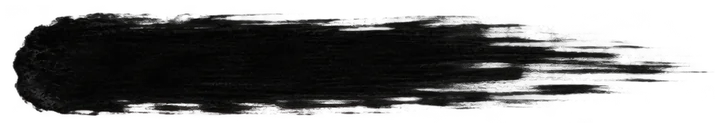
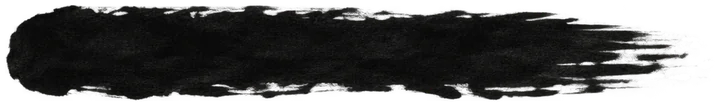
Battle ink UI: hand-painted card strokes, washi seals, brush-line gauges
Second painted sprite sheet (tools/ui/src/team_ink_sheet.webp), cut by
tools/ui/team_sheet.py:
- team cards alternate two upright brush strokes; the stroke runs past the
  card's foot so the name and gauges sit on its solid body
- HP and chakra gauges are masked to thin tapered brush lines
- ready seals sit on washi: round indigo 術 for a jutsu, square vermilion
  奥 for an ultimate, with a vermilion splash behind it
- the acting unit gets a vermilion brush tick
- commander banner uses the new solid stroke; its seal sits on washi, the
  details card uses brush-line rules, and the cut-in throws a splash
  behind the title
- fix: the hidden READY tag labels leaked on phones; the gold glow on the
  ready tags is gone

diff --git a/css/battle-team-ink.css b/css/battle-team-ink.css
@@ -2,12 +2,17 @@
    Layered over battle-team-holder.css / battle-chakra-wheel.css /
    battle-link-ultimate.css (markup unchanged, so tap, drag, swap, chakra
    and HP updates all work as before):
-   - each card is an upright ink brush stroke (assets/ui/ink/ink_card.webp),
-     the portrait painted into it (the same stroke as a mask), no frame art
-   - name in cream serif, a thin HP line, an indigo chakra gauge
+   - each card is an upright ink brush stroke (ink_card / ink_card_b.webp,
+     alternating), the portrait painted into it (the same stroke as a mask),
+     no frame art
+   - name in cream serif; the HP and chakra gauges are thin brush lines
+     (ink_line_a / ink_line_b.webp as masks)
    - slot number as brush kanji on a vermilion ink drop
-   - ready: painted seals instead of lightning — 術 (indigo) for a jutsu,
-     奥 (vermilion) for an ultimate — and a matching brush stroke under the card
+   - ready: painted seals on washi instead of lightning — a round indigo 術
+     for a jutsu, a square vermilion 奥 for an ultimate (over a vermilion splash),
+     with a matching brush stroke under the card
+   - acting: a vermilion brush tick above the card
+   Art: tools/ui/commander_sheet.py and tools/ui/team_sheet.py.
    The kanji use 'Yuji Boku Cmd' (declared in battle-commander.css). */
 #team-holder {
   --ti-paper: #efe6cf; --ti-paper-dim: rgba(239, 230, 207, 0.6); --ti-paper-faint: rgba(239, 230, 207, 0.16);
@@ -15,7 +20,10 @@
   --ti-brush: 'Yuji Boku Cmd', 'Hiragino Mincho ProN', 'Yu Mincho', 'Noto Serif JP', 'Kaisei Tokumin', serif;
   --ti-serif: 'Hiragino Mincho ProN', 'Yu Mincho', 'Noto Serif JP', 'Kaisei Tokumin', Georgia, serif;
   --ti-ink: url('../assets/ui/ink/ink_card.webp');
+  --ti-washi: url('../assets/ui/ink/ink_washi.webp');
 }
+/* every other card is painted with the second stroke, so they don't repeat */
+#team-holder .unit-card[data-pos="2"], #team-holder .unit-card[data-pos="4"] { --ti-ink: url('../assets/ui/ink/ink_card_b.webp'); }
 
 /* no frame art, no lightning */
 #team-holder .uc-art,
@@ -24,8 +32,10 @@
 
 /* ── the card: an upright ink stroke ─────────────────────────── */
 #team-holder .uc-body::before {
-  content: ''; position: absolute; inset: -3% -9% -6% -9%; z-index: 0; pointer-events: none;
-  background: var(--ti-ink) center / 100% 100% no-repeat;
+  /* the stroke runs past the card's foot, so its solid body (not the dry
+     drips at its end) sits under the name and gauges */
+  content: ''; position: absolute; inset: -3% -9% -34% -9%; z-index: 0; pointer-events: none;
+  background: var(--ti-ink) center top / 100% 100% no-repeat;
   filter: drop-shadow(0 4px 6px rgba(0, 0, 0, 0.55));
 }
 #team-holder .active-portrait-container > .unit-ring {
@@ -51,23 +61,25 @@
   text-shadow: 0 1px 2px rgba(0, 0, 0, 0.95);
 }
 #team-holder .unit-info .unit-hp-bar {
-  height: clamp(2px, calc(var(--uc-h) * 0.018), 4px);
-  background: var(--ti-paper-faint); border: 0; border-radius: 2px; box-shadow: none;
+  height: clamp(3px, calc(var(--uc-h) * 0.024), 5px);
+  background: var(--ti-paper-faint); border: 0; border-radius: 0; box-shadow: none;
+  -webkit-mask: url('../assets/ui/ink/ink_line_a.webp') center / 100% 100% no-repeat; mask: url('../assets/ui/ink/ink_line_a.webp') center / 100% 100% no-repeat;
 }
 #team-holder .unit-info .unit-hp-fill,
-#team-holder .unit-hp-fill { background: var(--ti-paper); border-radius: 2px; }
+#team-holder .unit-hp-fill { background: var(--ti-paper); border-radius: 0; }
 #team-holder .unit-card.hp-low .unit-info .unit-hp-fill { background: var(--ti-vermilion-2); }
 
 /* chakra: an indigo ink line with the count */
 #team-holder .uc-strip { left: 9%; right: 9%; top: 85%; height: 8%; }
 #team-holder .unit-card.has-backup .uc-strip { right: 24%; }
 #team-holder .chakra-gauge.cbar .cb-track {
-  height: 42%; border: 0; border-radius: 3px; box-shadow: none;
+  height: 48%; border: 0; border-radius: 0; box-shadow: none;
   background: var(--ti-paper-faint);
+  -webkit-mask: url('../assets/ui/ink/ink_line_b.webp') center / 100% 100% no-repeat; mask: url('../assets/ui/ink/ink_line_b.webp') center / 100% 100% no-repeat;
 }
 #team-holder .chakra-gauge.cbar .cb-fill {
   background: linear-gradient(90deg, var(--ti-indigo), var(--ti-indigo-2));
-  box-shadow: none; border-radius: 3px;
+  box-shadow: none; border-radius: 0;
 }
 #team-holder .chakra-gauge.cbar .cb-fill::after { background: var(--ti-paper); box-shadow: none; width: 1px; }
 #team-holder .chakra-gauge.cbar.ult-ready .cb-fill { background: linear-gradient(90deg, var(--ti-vermilion), var(--ti-vermilion-2)); }
@@ -90,18 +102,32 @@
 #team-holder .unit-card:not([data-pos="1"]):not([data-pos="2"]):not([data-pos="3"]):not([data-pos="4"]) .uc-pos { font-size: clamp(7px, calc(var(--uc-w) * 0.085), 13px); }
 
 /* ── ready: painted seals, a brush stroke under the card ──────── */
-#team-holder .uc-ready { top: 3%; right: 2%; gap: 3px; }
+#team-holder .uc-ready { top: 3%; right: 2%; gap: 3px; filter: none; isolation: isolate; }
+/* a vermilion splash thrown behind the seals when the ultimate is ready */
+#team-holder .unit-card.ult-ready .uc-ready::before {
+  content: ''; position: absolute; z-index: -1; pointer-events: none;
+  right: -18%; top: -22%; width: calc(var(--uc-w) * 0.46); aspect-ratio: 1; opacity: 0.92;
+  background: url('../assets/ui/ink/ink_splash_red.webp') center / contain no-repeat;
+}
 #team-holder .uc-tag {
   width: calc(var(--uc-w) * 0.26); aspect-ratio: 1; padding: 0; border: 0; border-radius: 0; transform: rotate(-6deg);
   background: none; box-shadow: none; text-shadow: none; font-size: 0; position: relative;
   filter: drop-shadow(0 2px 2px rgba(0, 0, 0, 0.6));
 }
-/* the painted seal (its own layer, so the jutsu seal can be re-inked indigo) */
+/* the tag's own label stays hidden (the seal's ::after carries the kanji), phones too */
+html.is-mobile #team-holder .uc-tag { font-size: 0; }
+/* the painted seal over a scrap of washi: square for the ultimate, round for a jutsu */
 #team-holder .uc-tag::before {
   content: ''; position: absolute; inset: 0;
   background:
     url('../assets/ui/ink/cmd_seal.webp') center / 100% 100% no-repeat,
-    linear-gradient(var(--ti-paper), var(--ti-paper)) center / 76% 76% no-repeat;
+    var(--ti-washi) center / 76% 76% no-repeat;
+}
+#team-holder .tag-jutsu::before {
+  background:
+    url('../assets/ui/ink/ink_seal_round.webp') center / 100% 100% no-repeat,
+    var(--ti-washi) center / 100% 100% no-repeat;
+  -webkit-mask: radial-gradient(circle closest-side, #000 98%, transparent 100%); mask: radial-gradient(circle closest-side, #000 98%, transparent 100%);
 }
 #team-holder .uc-tag::after {
   position: absolute; inset: 0; display: grid; place-items: center;
@@ -110,7 +136,6 @@
 #team-holder .tag-ult { color: var(--ti-vermilion); }
 #team-holder .tag-ult::after { content: '奥'; }
 #team-holder .tag-jutsu { color: var(--ti-indigo); }
-#team-holder .tag-jutsu::before { filter: hue-rotate(205deg) saturate(0.8); }
 #team-holder .tag-jutsu::after { content: '術'; }
 @keyframes ucTagIn {
   from { opacity: 0; transform: rotate(-6deg) scale(1.8); }
@@ -123,11 +148,11 @@
 }
 #team-holder .unit-card.jutsu-ready:not(.ult-ready) .uc-body::after { filter: hue-rotate(205deg) saturate(0.75); }
 
-/* ── acting unit: lifted, a vermilion drop above it ───────────── */
+/* ── acting unit: lifted, a vermilion brush tick above it ──────── */
 #team-holder .unit-card.is-acting::before {
-  width: 12%; aspect-ratio: 1; top: -2%; clip-path: none; filter: none;
-  background: var(--ti-vermilion-2);
-  -webkit-mask: url('../assets/ui/ink/cmd_dab.webp') center / contain no-repeat; mask: url('../assets/ui/ink/cmd_dab.webp') center / contain no-repeat;
+  left: 50%; width: 22%; aspect-ratio: 1; top: 1%; clip-path: none;
+  background: url('../assets/ui/ink/ink_tick.webp') center / contain no-repeat;
+  filter: drop-shadow(0 2px 2px rgba(0, 0, 0, 0.6));
 }
 #team-holder .unit-card.is-acting .uc-body::before { filter: drop-shadow(0 6px 10px rgba(0, 0, 0, 0.65)); }
 

diff --git a/css/battle-commander.css b/css/battle-commander.css
@@ -91,10 +91,10 @@
   display: none; position: absolute; right: 2px; top: -26px; z-index: 2; width: 38px; height: 38px;
   align-items: center; justify-content: center; writing-mode: vertical-rl;
   font-family: var(--cmd-brush); font-size: 13px; line-height: 1; color: var(--cmd-vermilion);
-  /* a painted hanko: the brushed frame (cmd_seal.webp) over a square of paper */
+  /* a painted hanko: the brushed frame (cmd_seal.webp) over a scrap of washi */
   background:
     url('../assets/ui/ink/cmd_seal.webp') center / 100% 100% no-repeat,
-    linear-gradient(var(--cmd-paper), var(--cmd-paper)) center / 78% 78% no-repeat;
+    url('../assets/ui/ink/ink_washi.webp') center / 78% 78% no-repeat;
   filter: drop-shadow(0 2px 3px rgba(0, 0, 0, 0.5));
   transform: rotate(-7deg);
 }
@@ -156,8 +156,9 @@
 .cmd-sub { font-size: 11px; color: var(--cmd-paper-dim); }
 .cmd-ds { position: relative; display: flex; flex-direction: column; gap: 5px; padding-top: 14px; }
 .cmd-ds::before {               /* a short brush rule */
-  content: ''; position: absolute; left: -4px; top: 2px; width: 120px; height: 8px; opacity: 0.85;
-  background: url('../assets/ui/ink/cmd_swash.webp') left center / 100% 100% no-repeat; filter: invert(0.88) sepia(0.25);
+  content: ''; position: absolute; left: -4px; top: 4px; width: 140px; height: 4px; opacity: 0.7;
+  background: var(--cmd-paper);
+  -webkit-mask: url('../assets/ui/ink/ink_line_a.webp') left center / 100% 100% no-repeat; mask: url('../assets/ui/ink/ink_line_a.webp') left center / 100% 100% no-repeat;
 }
 .cmd-dsh { display: flex; justify-content: space-between; align-items: baseline; gap: 10px; }
 .cmd-dsh span { font-family: var(--cmd-caps); font-size: 7.5px; font-weight: 600; letter-spacing: 0.32em; text-transform: uppercase; color: var(--cmd-paper-dim); }
@@ -193,6 +194,14 @@
   text-shadow: 0 2px 10px rgba(0, 0, 0, 0.85);
 }
 .cmd-cutin.in .cmd-title { transform: translate(0, -50%); opacity: 1; }
+/* a vermilion splash thrown behind the title as it lands */
+.cmd-title::before {
+  content: ''; position: absolute; z-index: -1; left: -9%; top: 60%; width: min(17vw, 160px); aspect-ratio: 1;
+  background: url('../assets/ui/ink/ink_splash_red.webp') center / contain no-repeat;
+  transform: translate(0, -50%) scale(0.3) rotate(-20deg); opacity: 0;
+  transition: transform 0.32s 0.1s cubic-bezier(0.2, 1.4, 0.4, 1), opacity 0.2s 0.1s;
+}
+.cmd-cutin.in .cmd-title::before { transform: translate(0, -50%) scale(1) rotate(0deg); opacity: 0.8; }
 .cmd-cutin.out .cmd-title { opacity: 0; transition: opacity 0.2s; }
 .cmd-title .cmd-k { display: flex; align-items: baseline; gap: 10px; }
 .cmd-title .cmd-k b { font-family: var(--cmd-brush); font-weight: 400; font-size: 24px; color: var(--cmd-vermilion-2); }

diff --git a/sw.js b/sw.js
@@ -1,4 +1,4 @@
-const CACHE = 'blazing-shell-v145';
+const CACHE = 'blazing-shell-v146';
 const BASE = new URL('./', self.location.href).pathname;
 const SHELL = [
   'index.html',

diff --git a/tools/ui/team_sheet.py b/tools/ui/team_sheet.py
@@ -1,0 +1,78 @@
+#!/usr/bin/env python3
+"""Cut the battle team cards' brush art out of the second painted sprite sheet.
+
+    python3 tools/ui/team_sheet.py [tools/ui/src/team_ink_sheet.webp]
+
+The sheet (1254px square, transparent) holds: two upright card strokes and a
+washi paper swatch; a wide banner stroke; two thin brush lines; then a round
+seal (re-inked indigo: the jutsu seal), a vermilion tick, a black splash and a vermilion splash.
+The pieces sit in fixed rows, so each is cut from its region, cleaned of
+specks (the splashes keep their spatter), toned and written to
+assets/ui/ink/*.webp. Run tools/ui/commander_sheet.py first: this sheet's
+banner replaces its cmd_swash.webp.
+"""
+import os
+import sys
+
+import numpy as np
+from PIL import Image
+
+sys.path.insert(0, os.path.dirname(os.path.abspath(__file__)))
+from commander_sheet import OUT, ROOT, clean, save, vermilion  # noqa: E402
+
+INDIGO = np.array([58, 98, 158], np.float32)
+SRC = sys.argv[1] if len(sys.argv) > 1 else os.path.join(ROOT, "tools", "ui", "src", "team_ink_sheet.webp")
+
+# (y0, y1, x0, x1) regions on the 1254px sheet
+REGIONS = {
+    "card_a": (0, 600, 100, 360),
+    "card_b": (0, 600, 430, 700),
+    "washi": (60, 540, 770, 1240),
+    "banner": (598, 812, 0, 1254),
+    "line_a": (812, 900, 0, 1254),
+    "line_b": (900, 960, 0, 1254),
+    "seal": (962, 1254, 0, 375),
+    "tick": (962, 1254, 375, 630),
+    "splash_k": (962, 1254, 630, 940),  # the sumi splash: not used (lost on dark ink)
+    "splash_r": (962, 1254, 940, 1254),
+}
+
+
+def crop(a, name):
+    y0, y1, x0, x1 = REGIONS[name]
+    c = a[y0:y1, x0:x1]
+    ys, xs = np.nonzero(c[..., 3] > 8)
+    return c[ys.min():ys.max() + 1, xs.min():xs.max() + 1]
+
+
+def indigo(c):
+    """The vermilion seal re-inked indigo (the jutsu seal), keeping its light and dark."""
+    o = c.copy().astype(np.float32)
+    shade = np.clip(o[..., 0] / 225.0, 0.55, 1.15)[..., None]
+    o[..., :3] = INDIGO * shade + (o[..., 1:2] + o[..., 2:3]) * 0.2
+    return o.clip(0, 255).astype(np.uint8)
+
+
+def white(c):
+    """A CSS mask: white, keeping the alpha."""
+    o = c.copy()
+    o[..., :3] = 255
+    return o
+
+
+def main():
+    a = np.asarray(Image.open(SRC).convert("RGBA"))
+    p = lambda n, **k: clean(crop(a, n), **k)
+    save(p("card_a"), "ink_card.webp", height=900, q=85)
+    save(p("card_b"), "ink_card_b.webp", height=900, q=85)
+    save(clean(crop(a, "washi"), pad=4), "ink_washi.webp", width=256, q=82)
+    save(p("banner"), "cmd_swash.webp", width=720, q=85)
+    save(white(p("line_a", pad=2)), "ink_line_a.webp", width=600, q=90)
+    save(white(p("line_b", pad=2)), "ink_line_b.webp", width=600, q=90)
+    save(indigo(p("seal", keep=0.05)), "ink_seal_round.webp", width=160)
+    save(vermilion(p("tick", keep=0.05)), "ink_tick.webp", width=96)
+    save(vermilion(p("splash_r", keep=0.0005)), "ink_splash_red.webp", width=256)
+
+
+if __name__ == "__main__":
+    main()

diff --git a/tools/ui/commander_sheet.py b/tools/ui/commander_sheet.py
@@ -4,9 +4,9 @@
     python3 tools/ui/commander_sheet.py [tools/ui/src/commander_ink_sheet.webp]
 
 The sheet (transparent background) holds, top to bottom: a huge wide stroke
-(the cut-in band), a wide stroke (the banner), a vermilion stroke and an enso,
-a vermilion hanko seal and six ink drops. The band is also saved upright as
-the backing / mask of the battle team cards (ink_card.webp). Each piece is cropped, cleaned of
+(the cut-in band), a wide stroke (the old banner, now taken from the second
+sheet by team_sheet.py), a vermilion stroke and an enso, a vermilion hanko
+seal and six ink drops. Each piece is cropped, cleaned of
 stray specks, toned (vermilion for the reds, cream for the enso so it reads on
 black ink) and written to assets/ui/ink/cmd_*.webp.
 """
@@ -83,7 +83,7 @@ def main():
     big, small = pieces(a)[:5], pieces(a)[5:11]
     # the five large pieces by position: top row, second row, then left/right halves
     big = sorted(big, key=lambda sl: (sl[0].start, sl[1].start))
-    band, banner = big[0], big[1]
+    band = big[0]  # big[1], the banner, is replaced by team_sheet.py's
     rest = sorted(big[2:], key=lambda sl: (sl[0].start, sl[1].start))
     red_or_enso = {}
     for sl in rest:
@@ -95,10 +95,6 @@ def main():
         else: red_or_enso["enso"] = sl
 
     save(clean(a[band]), "cmd_band.webp", width=1400, q=85)
-    # the same stroke stood upright (loaded head at the top): the battle team cards
-    up = np.ascontiguousarray(np.rot90(clean(a[band]), k=-1))
-    save(up, "ink_card.webp", height=900, q=85)
-    save(clean(a[banner]), "cmd_swash.webp", width=720, q=85)
     save(vermilion(clean(a[red_or_enso["red"]], keep=0.02)), "cmd_swash_red.webp", width=560)
     save(vermilion(clean(a[red_or_enso["seal"]], keep=0.05)), "cmd_seal.webp", width=160)
     save(tint(clean(a[red_or_enso["enso"]]), PAPER, fade=0.45), "cmd_enso.webp", width=220)
